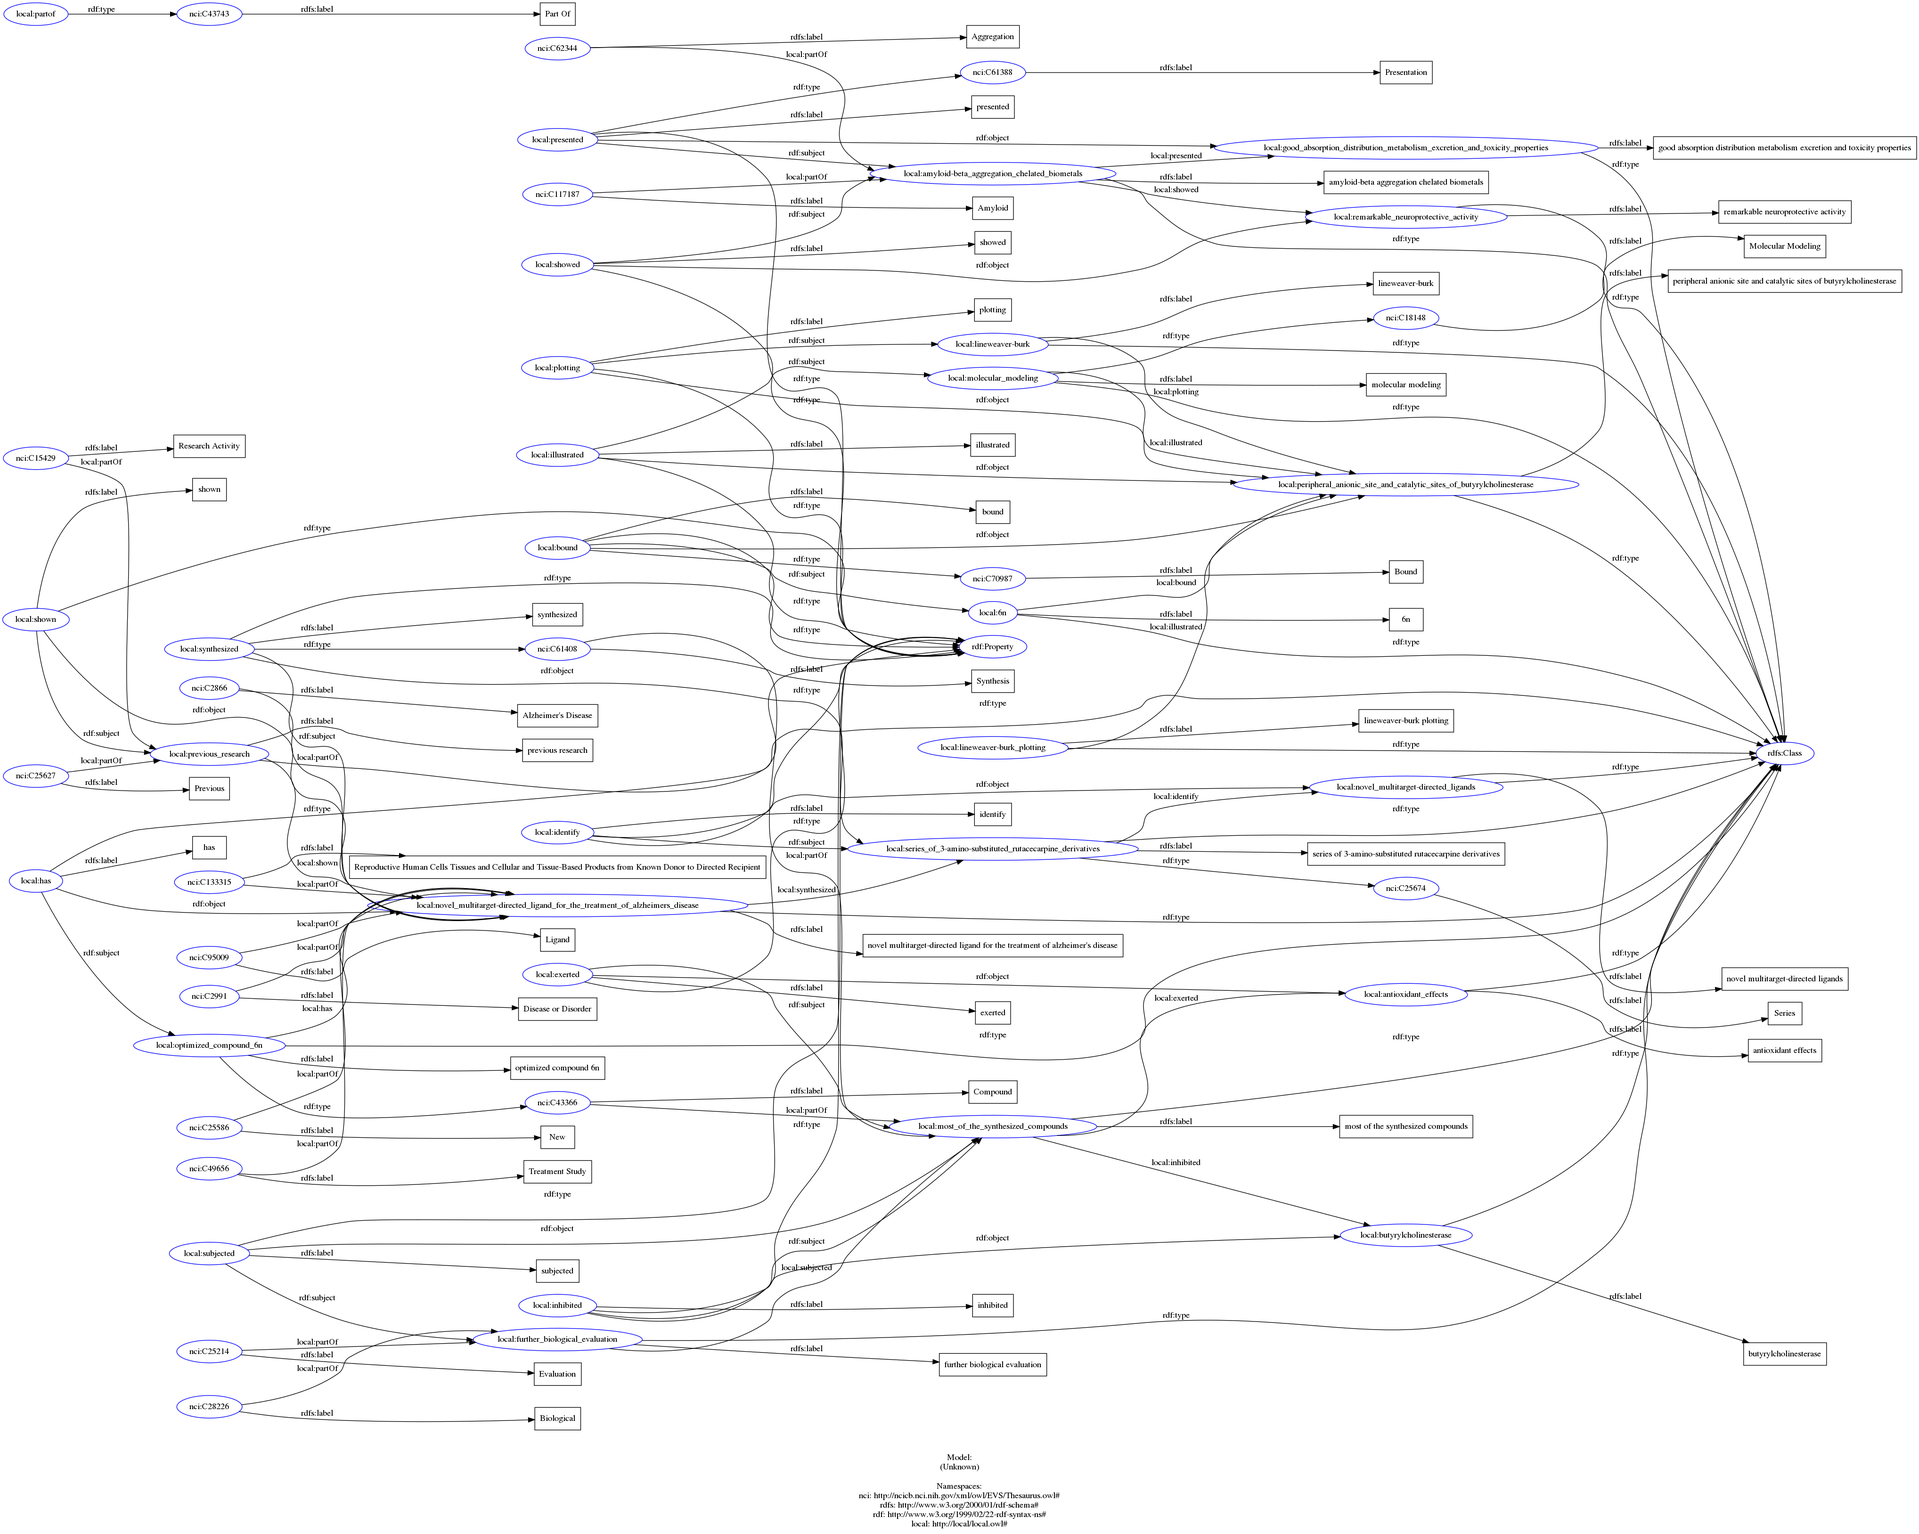
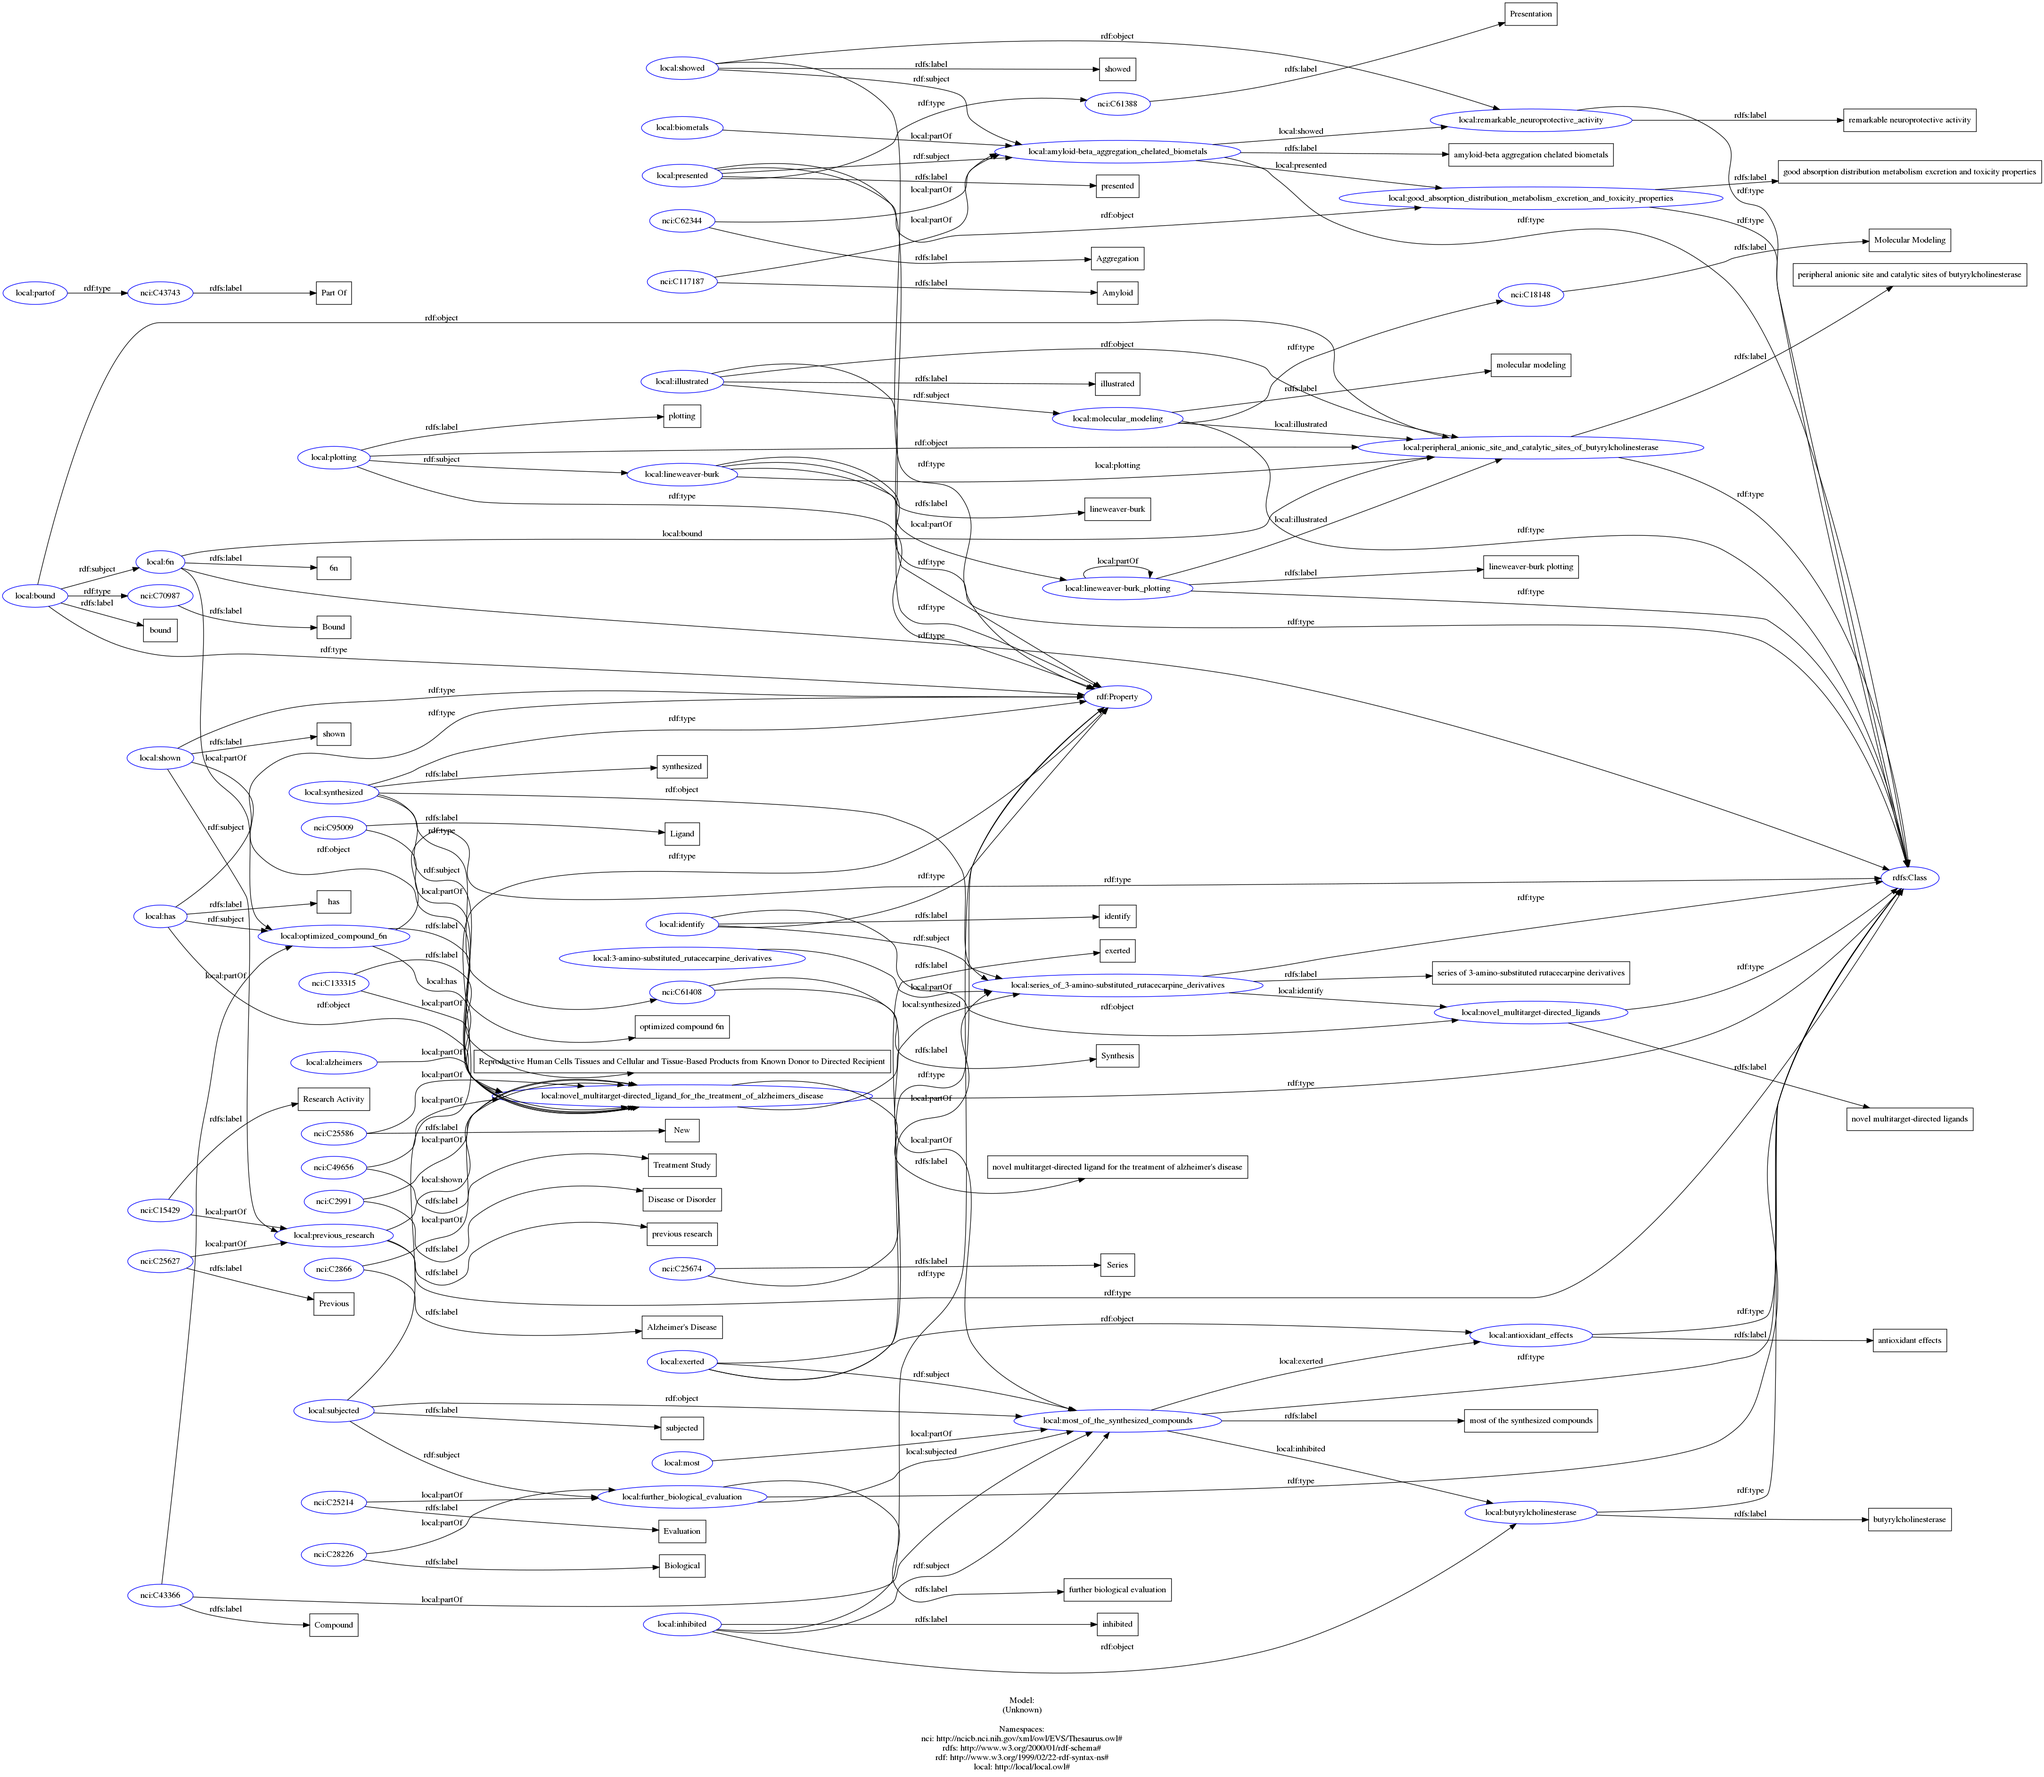
Merging links for composing entities

diff --git a/kb_linker/linker.py b/kb_linker/linker.py
@@ -66,6 +66,18 @@ class Linker:
             if not np.lower() in np_entities.keys():
                 np_entities[np.lower()] = 'notfound:' + np.lower().replace(' ', '_')
 
+        for np in nps_list:
+            pos = nps_list.index(np)
+            sub_nps_list = nps_list[pos + 1:]
+            for sub_np in sub_nps_list:
+                if np in sub_np and not np == sub_np:
+                    # merge both links lists
+                    tmp_set = set()
+                    tmp_set.update(np_entities[np.lower()].split(','))
+                    tmp_set.update(np_entities[sub_np.lower()].split(','))
+
+                    np_entities[sub_np.lower()] = ','.join(list(tmp_set))
+
         return np_entities
 
     def __associate_verbs_to_entities(self, verbs, links):

diff --git a/common/triple.py b/common/triple.py
@@ -82,8 +82,8 @@ class Triple:
                     match_type, link, matched = self.__get_typeof(part, full)
                     part_relations.add('{}\tlocal:partOf\t{}\t.'.format(link, full))
                     part_relations.add('{}\trdfs:label\t"{}"\t.'.format(link, matched))
-                else: # notfound:
-                    ent = 'local:{}'.format(part[part.find(':')+1:])
+                elif not len(parts) == 1: # notfound:
+                    ent = 'local:{}'.format(self.__format_name(part[part.find(':')+1:]))
                     part_relations.add('{}\tlocal:partOf\t{}\t.'.format(ent, full))
 
             part_relations.add('local:partof\trdf:type\tnci:C43743\t.')
